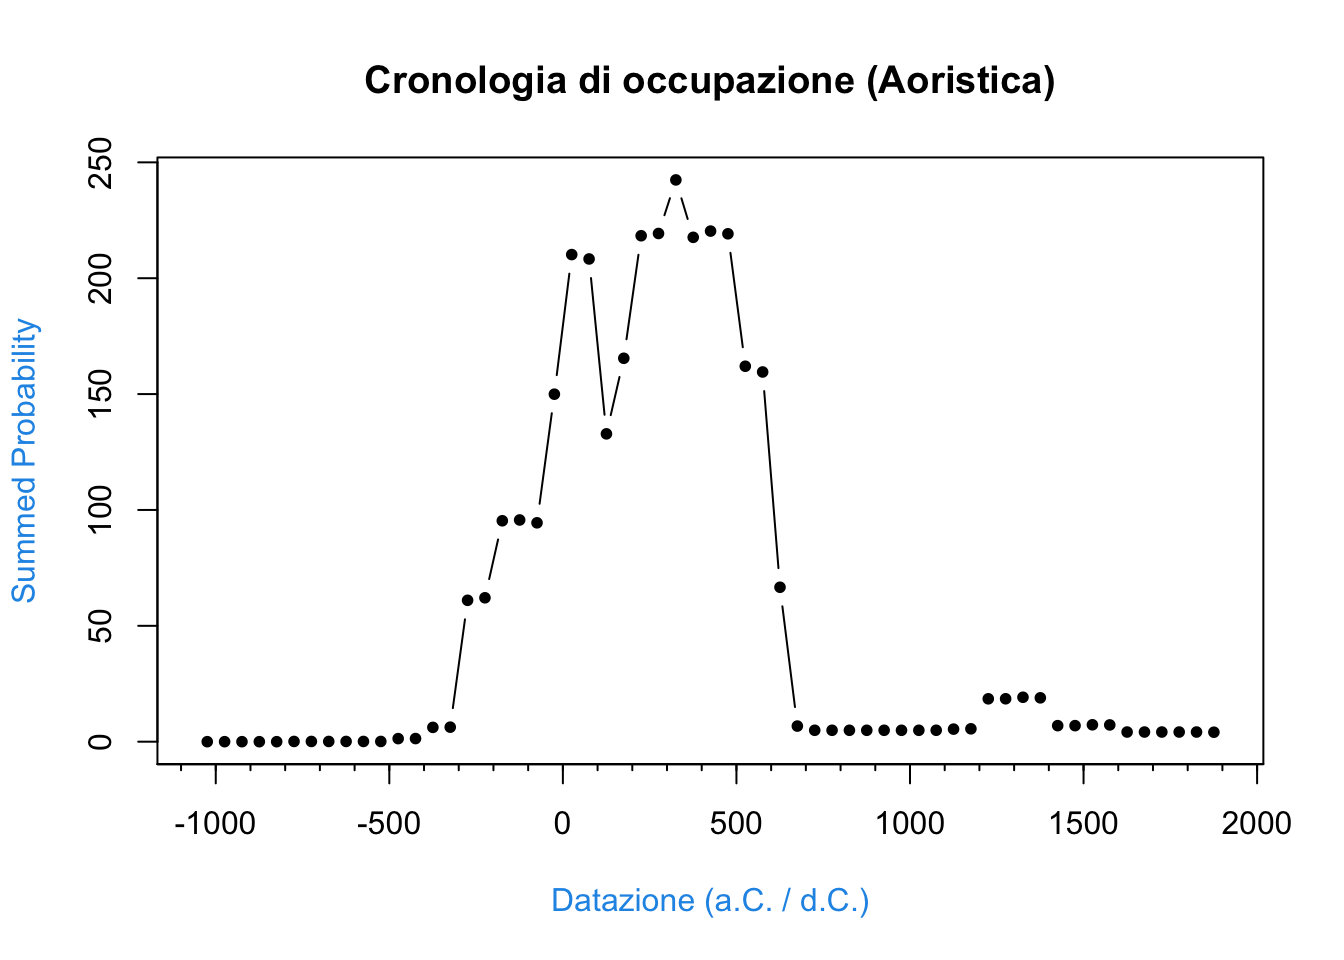
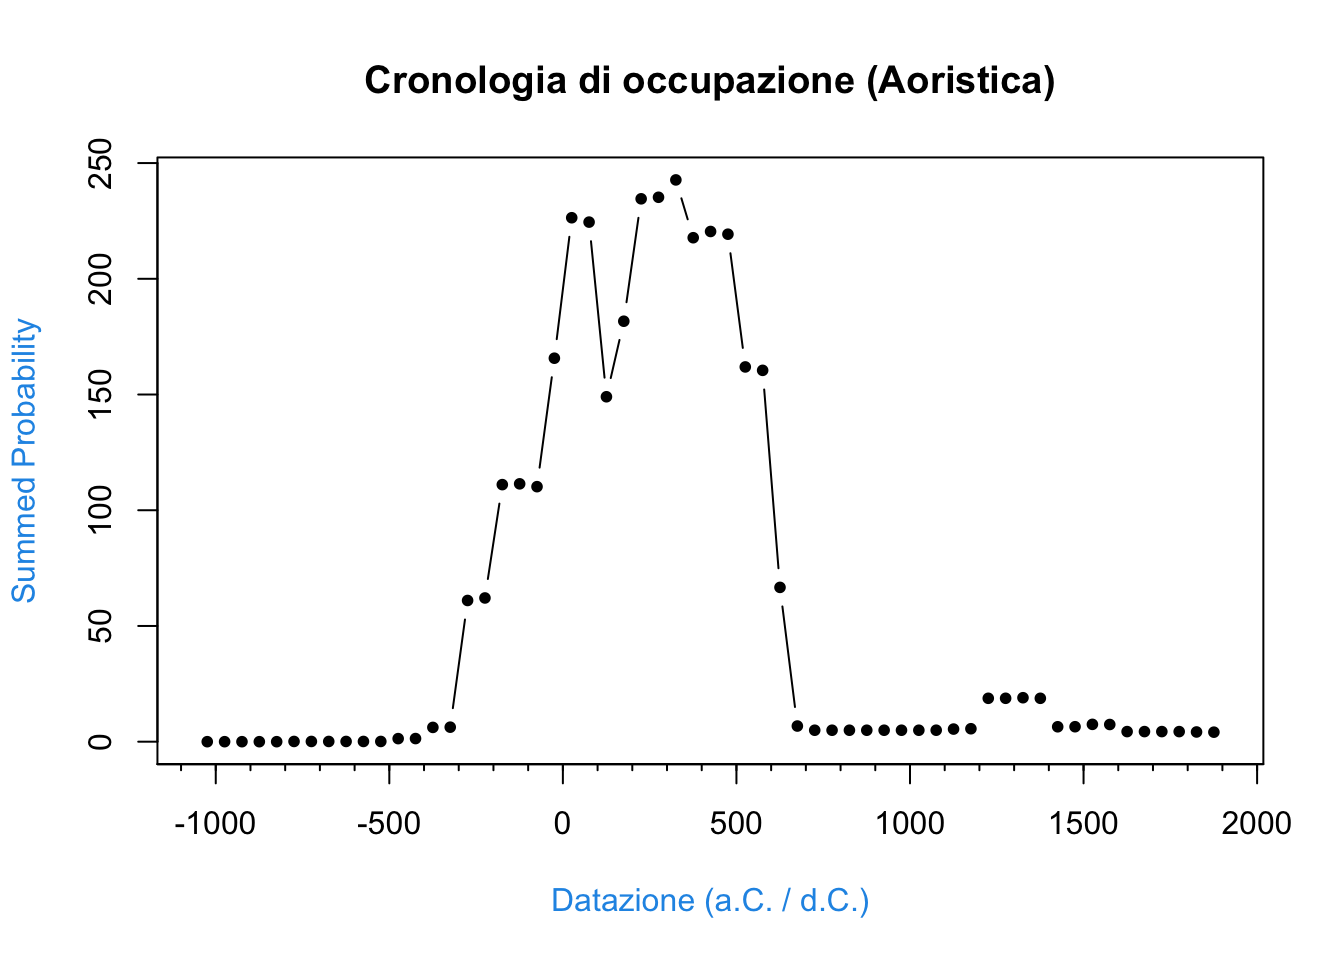
MASCHERONE Chronology update
Added specific chronologies for specific sherds

diff --git a/mascherone.html b/mascherone.html
@@ -499,7 +499,7 @@ Cronologia
 <td style="text-align: right;">1299</td>
 </tr>
 <tr class="even">
-<td style="text-align: left;">ceramica_invetriata_graffita</td>
+<td style="text-align: left;">ceramica_graffita</td>
 <td style="text-align: right;">1500</td>
 <td style="text-align: right;">1899</td>
 </tr>
@@ -629,9 +629,29 @@ Cronologia
 <td style="text-align: right;">1799</td>
 </tr>
 <tr class="even">
+<td style="text-align: left;">pesi_telaio</td>
+<td style="text-align: right;">NA</td>
+<td style="text-align: right;">NA</td>
+</tr>
+<tr class="odd">
 <td style="text-align: left;">intonaco</td>
 <td style="text-align: right;">-200</td>
 <td style="text-align: right;">299</td>
+</tr>
+<tr class="even">
+<td style="text-align: left;">vetro</td>
+<td style="text-align: right;">NA</td>
+<td style="text-align: right;">NA</td>
+</tr>
+<tr class="odd">
+<td style="text-align: left;">selce_lavorata</td>
+<td style="text-align: right;">-6500</td>
+<td style="text-align: right;">-600</td>
+</tr>
+<tr class="even">
+<td style="text-align: left;">monete</td>
+<td style="text-align: right;">NA</td>
+<td style="text-align: right;">NA</td>
 </tr>
 </tbody>
 </table>
